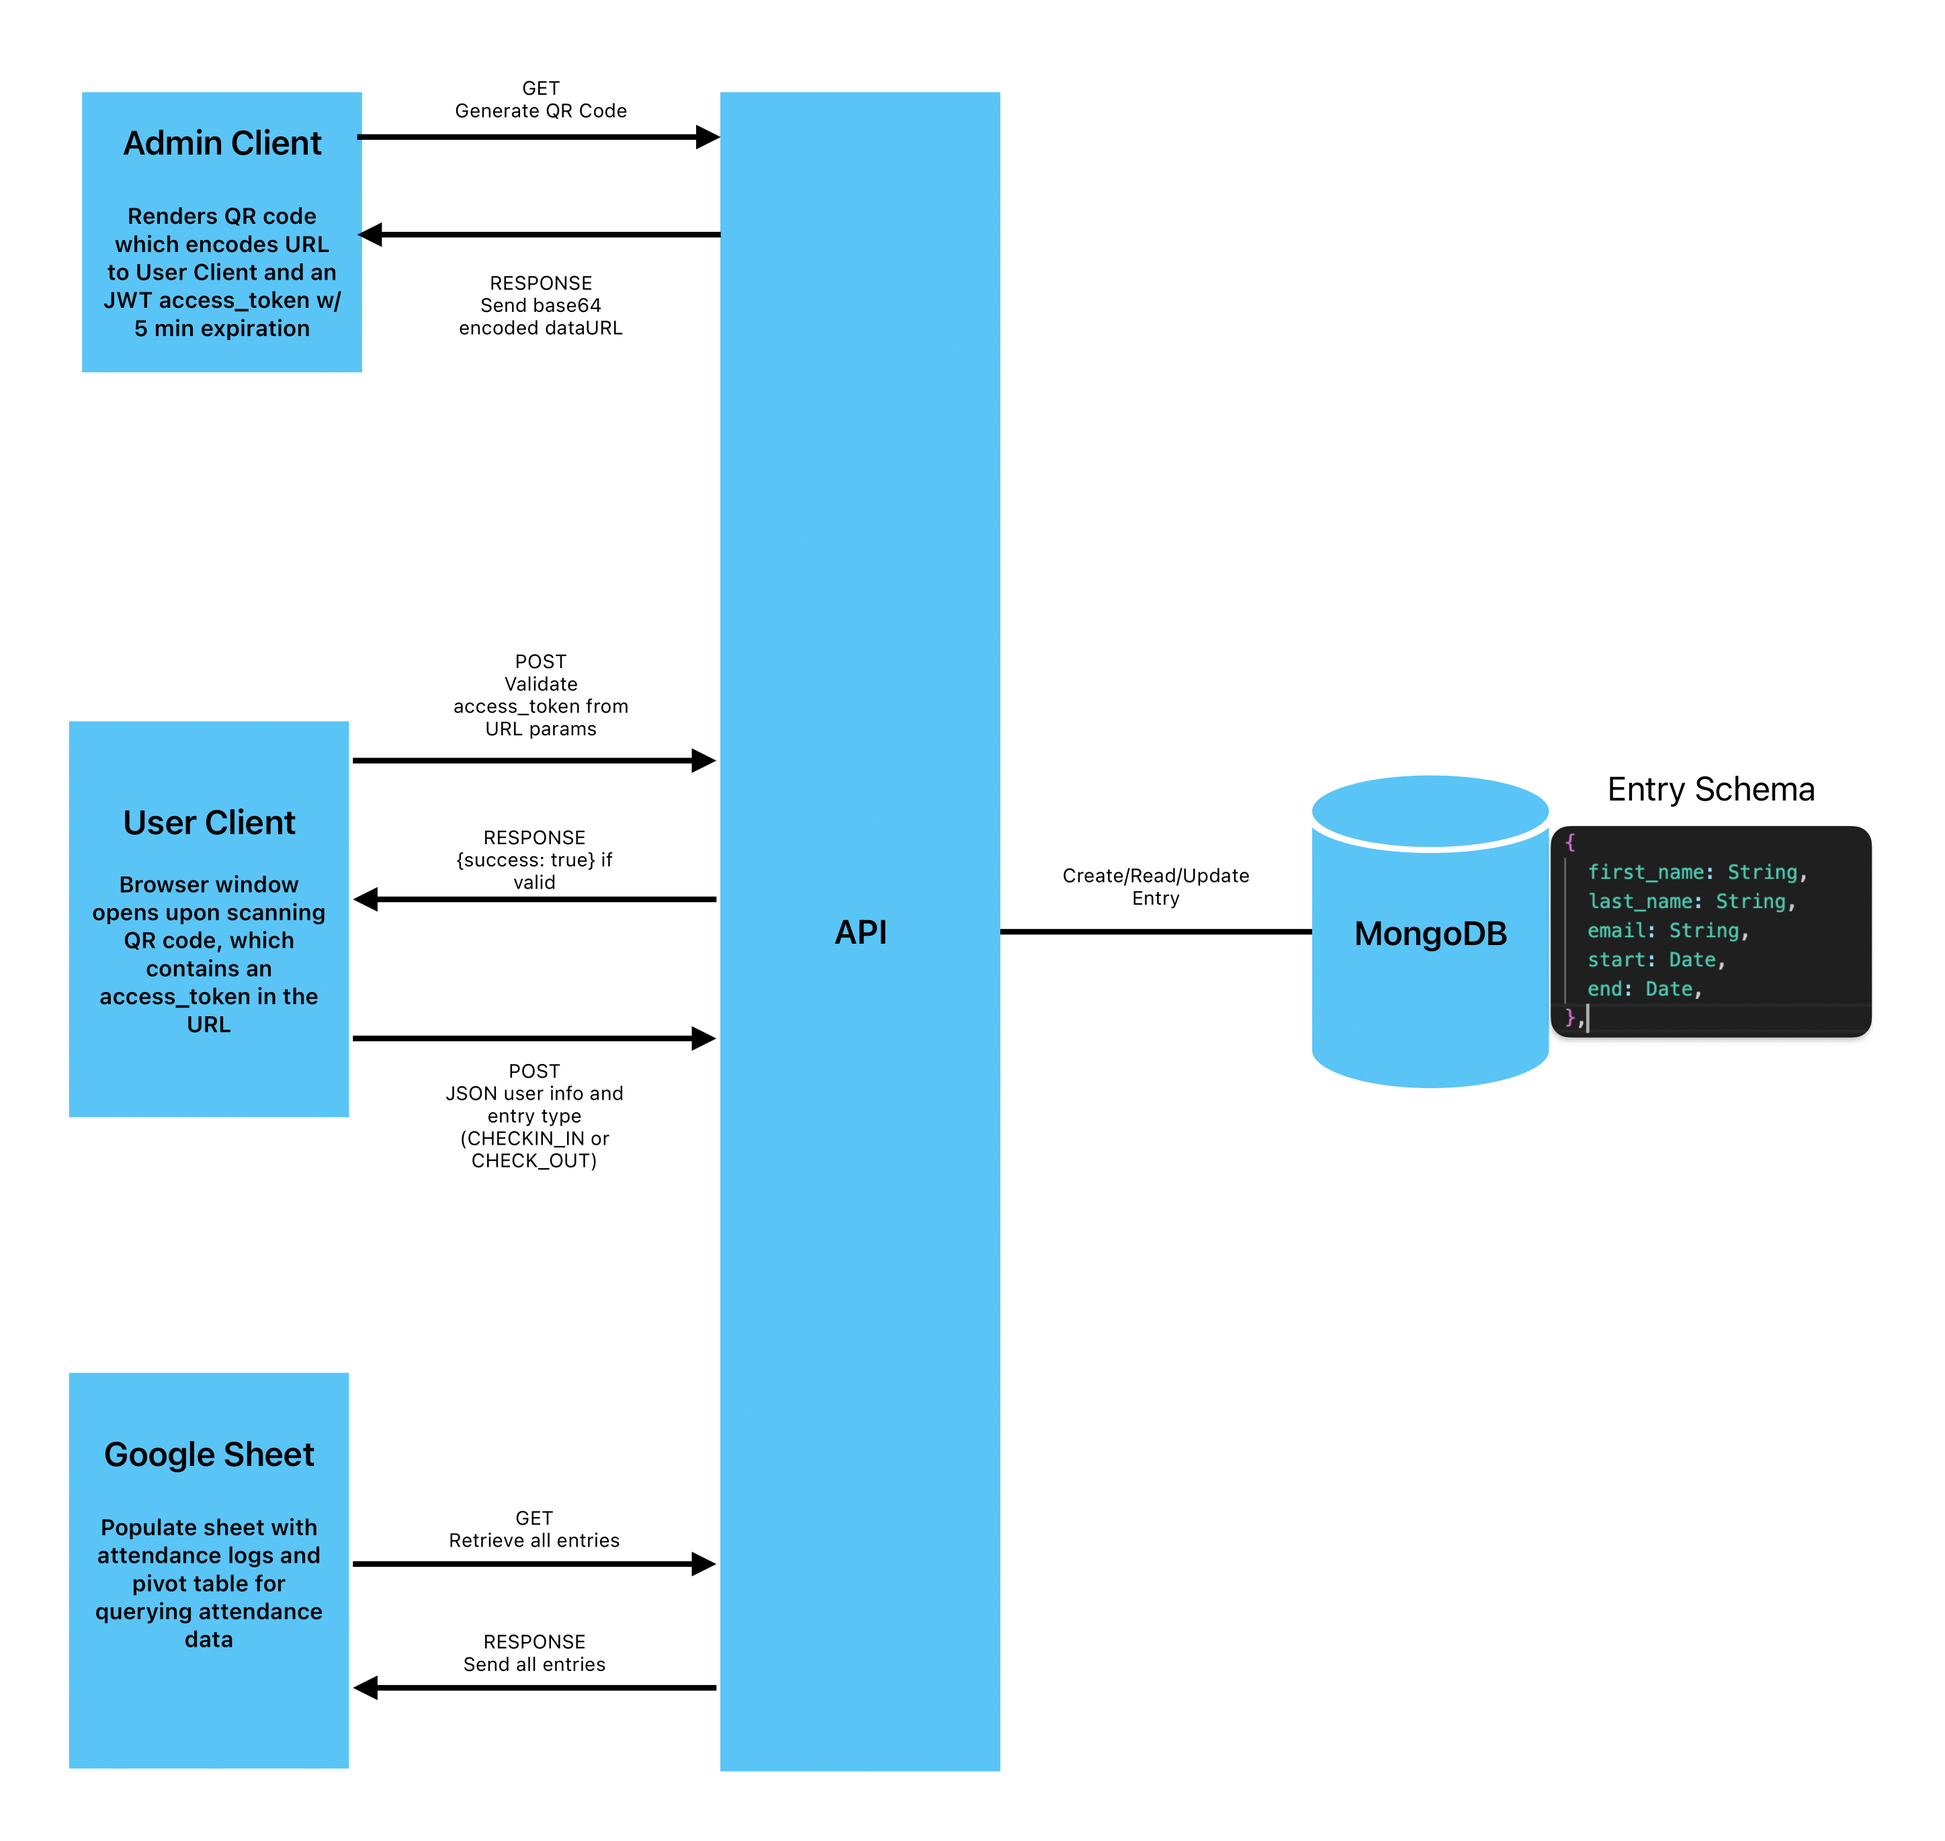
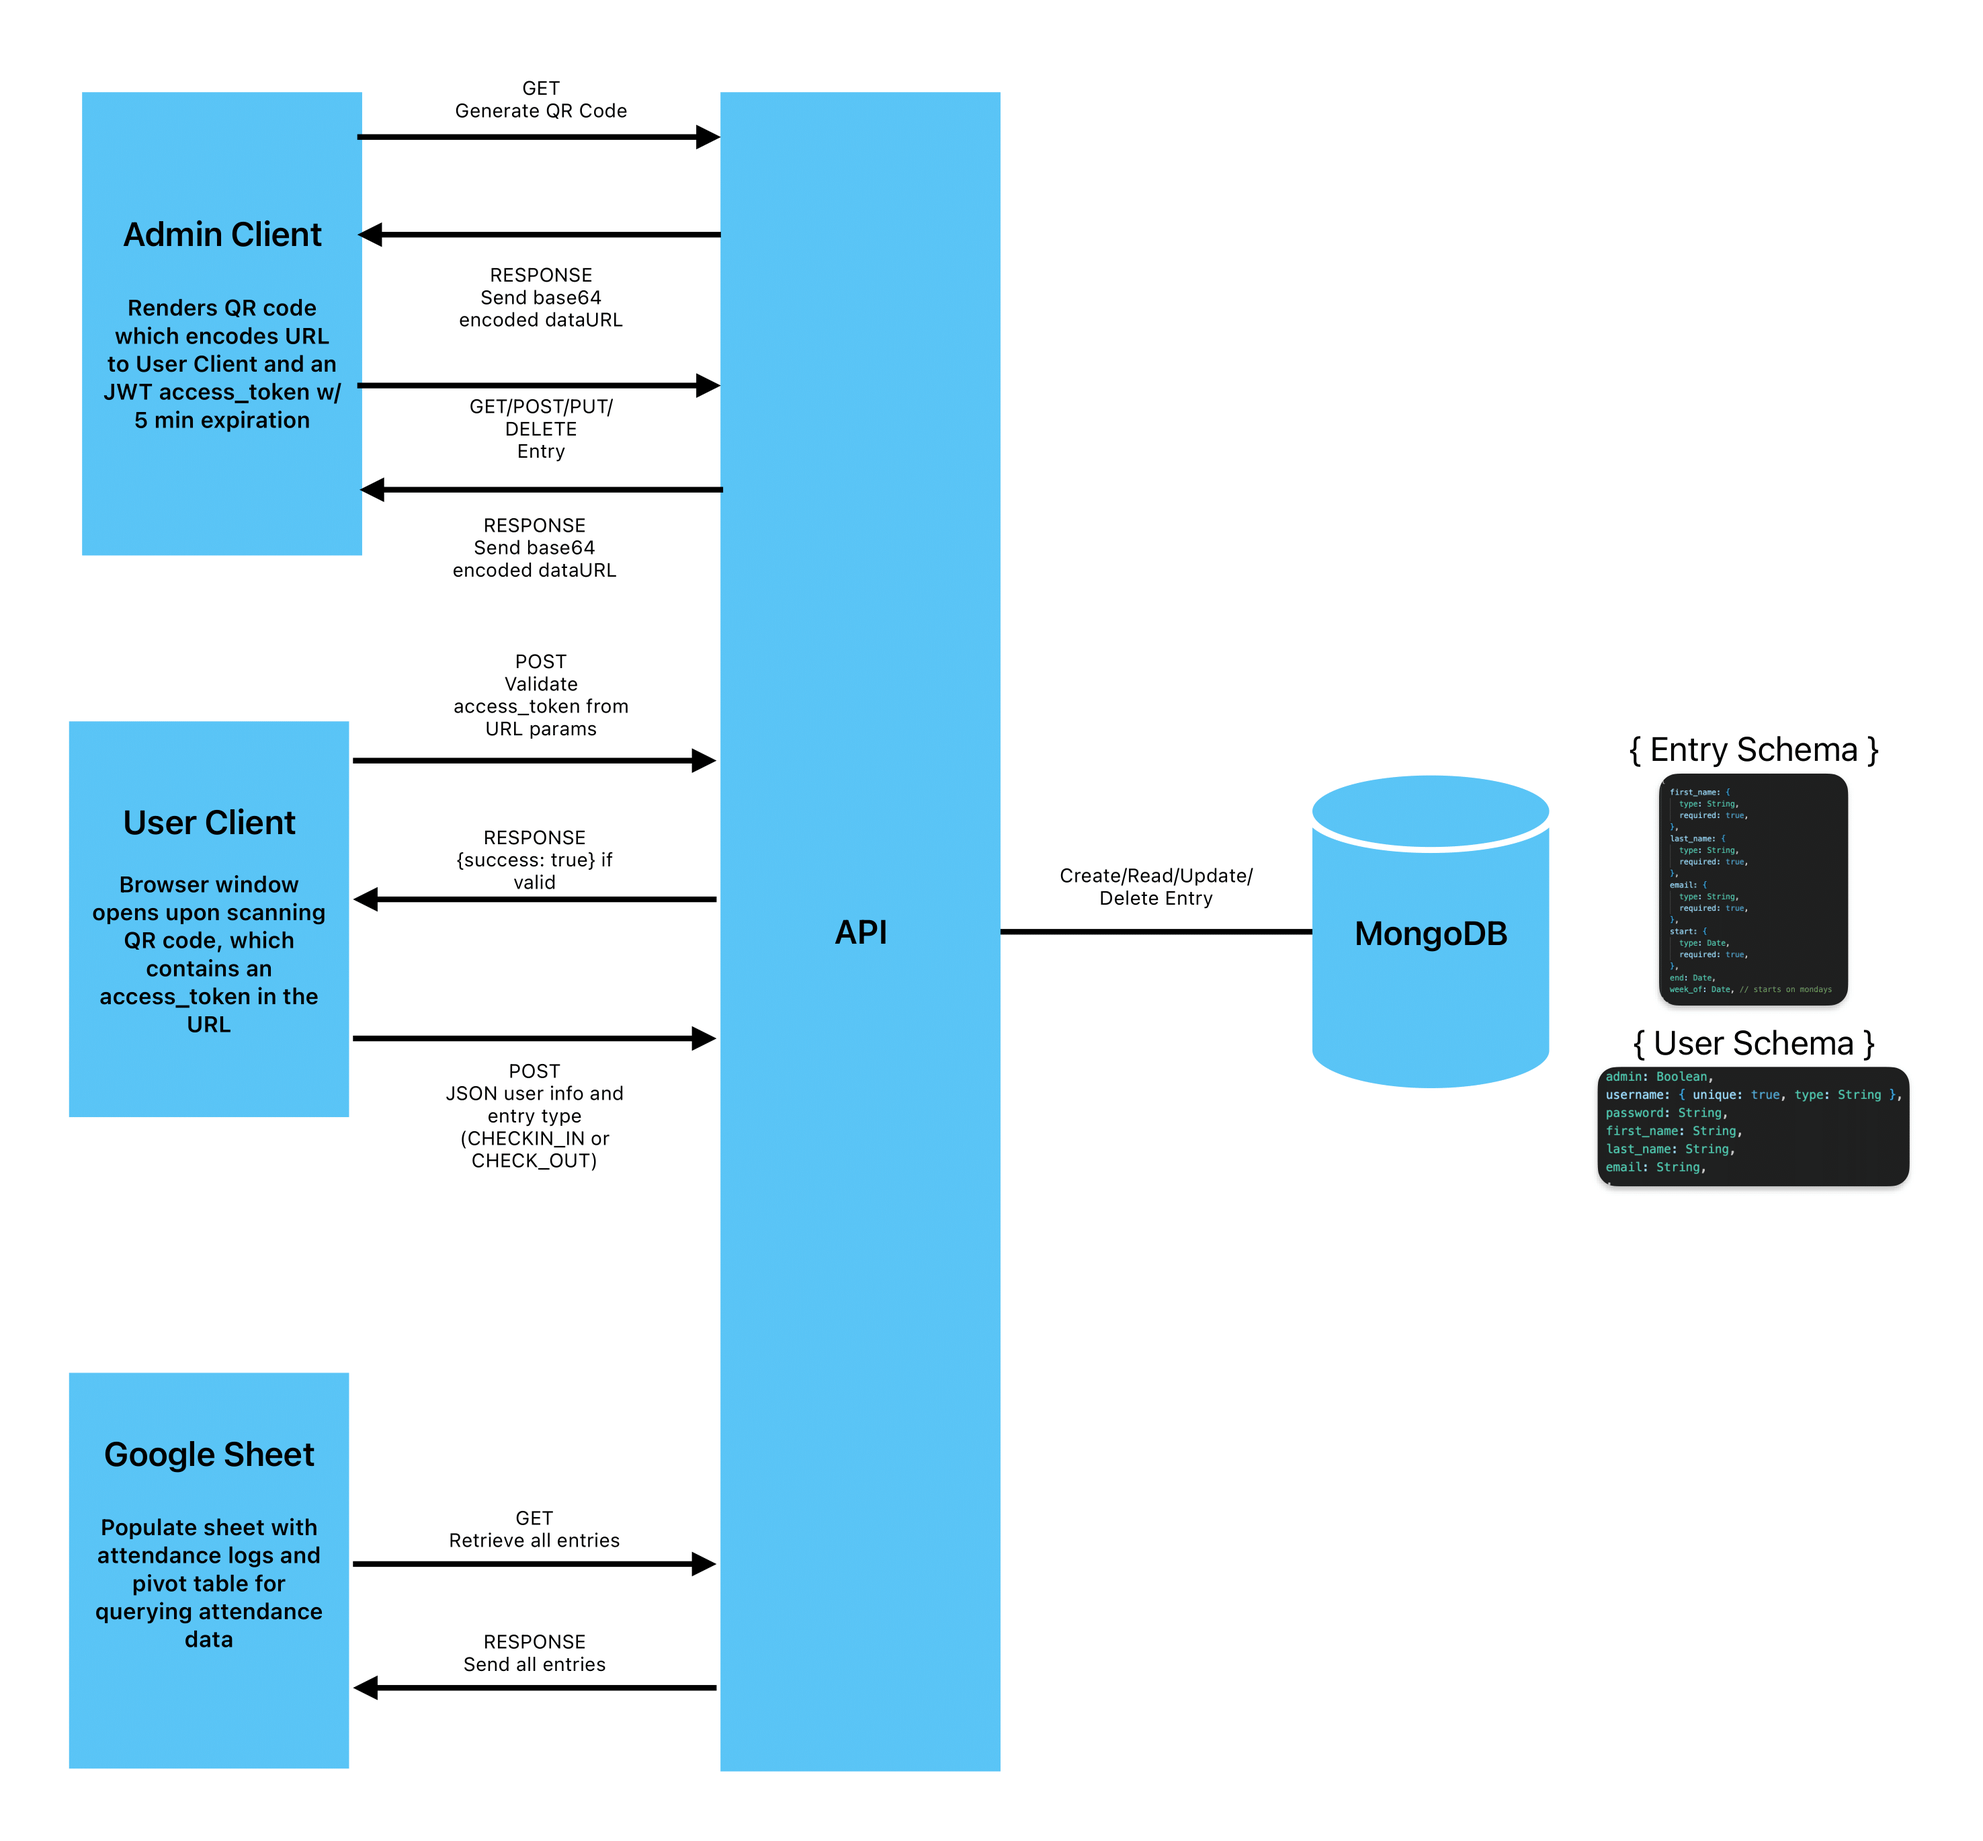
update readme and arch diagram

diff --git a/README.md b/README.md
@@ -6,6 +6,9 @@ Node server API for logging attendance, generating QR codes, and validating acce
 
 - [User Client](https://github.com/bbgrabbag/vs-attendance-client-user.git)
 - [Admin Client](https://github.com/bbgrabbag/vs-attendance-client-admin.git)
+- Attendance Spreadsheet
+  - [Prod](https://docs.google.com/spreadsheets/d/12T2-isdu6xNbipYujpXWjE6lnEGXTQmfxQbDvoB6wFQ/edit#gid=1779750210)
+  - [QA](https://docs.google.com/spreadsheets/d/11VRQK2OnqzBCogqMBHV_wzyxvH8xhQc7V2VH2quoKyI/edit#gid=1779750210)
 
 ### Sytem Architecture
 
@@ -23,6 +26,9 @@ cat .env.template >> .env.ci
 # generate .env.vault (remember to run this whenever there is a change to an .env.* file)
 npm run set-env
 
+#create admin-user
+npm run db:admin-user:create:dev
+
 # start dev server
 npm run dev
 
@@ -36,23 +42,52 @@ npm run lint
 npm run format
 ```
 
+### Database Scripts
+
+```bash
+# Note: <env> can be either qa, prod, or dev, each affecting their respective db environment. Script files can be found in /db/scripts/.
+
+# Creates an admin user. Some endpoints require an admin_access_token to be sent on behalf of an admin user. These are acquired by logging in via the `api/auth/admin/login` route.
+npm run db:admin-user:create:<env>
+
+# Used for data mgiration tasks such as batch updating.
+npm run db:migrate:<env>
+
+# Populate database with mock data. DO NOT USE FOR PRODUCTION!
+npm run db:seed:<env> # qa and dev only
+```
+
 ### API Endpoints
 
-> See [architecture diagram](#sytem-architecture) for `Entry` Schema.
-
-```
-EntryType = 'CHECK_IN' | 'CHECK_OUT'
-Fields = {
-    firstName: String,
-    lastName: String,
-    email: String
+```ts
+type LogEntryType = "CHECK_IN" | "CHECK_OUT";
+type LogEntryFields = {
+  firstName: string;
+  lastName: string;
+  email: string;
+};
+type Entry = {
+    first_name: string;
+    last_name: string;
+    email: string;
+    start: string; //ISO8601 Date format
+    end?: string; //ISO8601 Date format
+    week_of?: string //ISO8601 Date format 
+}
+type AdminUser = {
+    username: string;
+    password: string;
 }
 ```
 
-| Method | Path                                                 | Description                                                                                                                                                   | Headers                                  | Request Body                            | Response Data       |
-| ------ | ---------------------------------------------------- | ------------------------------------------------------------------------------------------------------------------------------------------------------------- | ---------------------------------------- | --------------------------------------- | ------------------- |
-| `GET`  | `/docs`                                              | Retrieve API documentation                                                                                                                                    |                                          |                                         | `<html>`            |
-| `GET`  | `/api/qr-code/generate`                              | Provides a dataURL of a QR code which encodes the User Client website URL and time-limited `access_token`: `https://<client_url>?access_token=<access_token>` |                                          |                                         | `{dataUrl:String}`  |
-| `GET`  | `/api/qr-code/validate`                              | Validates `access_token`                                                                                                                                      | `{Authorization: Bearer <access_token>}` |                                         | `{success:true}`    |
-| `GET`  | `/api/attendance/entries?&email=<string\|undefined>` | Retrieves filtered `Entry` records. Omit query parameters for all records.                                                                                    |                                          |                                         | `{entries:Entry[]}` |
-| `POST` | `/api/attendance/log-entry`                          | Creates a new timestamped `Entry`                                                                                                                             | `{Authorization: Bearer <access_token>}` | `{ "fields": Fields,"type": EntryType}` | `{success:true}`    |
+| Method   | Path                                                 | Description                                                                                                                                                                                                                                                                                                                                                         | Headers                                          | Request Body (JSON)                               | Response Data (JSON)                      |
+| -------- | ---------------------------------------------------- | ------------------------------------------------------------------------------------------------------------------------------------------------------------------------------------------------------------------------------------------------------------------------------------------------------------------------------------------------------------------- | ------------------------------------------------ | ------------------------------------------------- | ----------------------------------------- |
+| `GET`    | `/docs`                                              | Retrieve API documentation                                                                                                                                                                                                                                                                                                                                          |                                                  |                                                   | `<html>`                                  |
+| `POST`   | `/api/auth/admin/login`                              | Authenticates admin user and issues an `<admin_access_token>`.                                                                                                                                                                                                                                                                                                      |                                                  | `{ user: AdminUser }` | `{ success: true, access_token: string }` |
+| `GET`    | `/api/qr-code/generate`                              | Provides a dataURL of a QR code which encodes the User Client website URL and time-limited `user_access_token`: `https://<client_url>?access_token=<user_access_token>`                                                                                                                                                                                             |                                                  |                                                   | `{ dataUrl: string }`                      |
+| `GET`    | `/api/qr-code/validate`                              | Validates provided `user_access_token`                                                                                                                                                                                                                                                                                                                                       | `{ Authorization: Bearer <user_access_token>}`   |                                                   | `{ success:true }`                        |
+| `GET`    | `/api/attendance/entries?&email=<string\|undefined>` | Retrieves filtered `Entry` records. Omit query parameters for all records.                                                                                                                                                                                                                                                                                          |                                                  |                                                   | `{ success: true, entries:Entry[] }`      |
+| `POST`   | `/api/attendance/log-entry`                          | If `CHECK_IN` type is provided, a new timestamped `Entry` is created with `start` set to time of creation. Automatically sets `week_of` to the Monday prior to timestamp. For `CHECK_OUT` types, the most recent `Entry` belonging to record with given `email` is updated with `end` set to current time. If no records are found or lastest entry has already been checked out, an error will be thrown. | `{ Authorization: Bearer <user_access_token> }`  | `{ fields: LogEntryFields, type: LogEntryType }`             | `{ success:true, entry: Entry }`          |
+| `PUT`    | `/api/attendance/entries/:id`                        | Updates `Entry` Record with provided `id`.                                                                                                                                                                                                                                                                                                                          | `{ Authorization: Bearer <admin_access_token> }` | `{ fields: Entry }`                               | `{ success: true, entry: Entry }`         |
+| `DELETE` | `/api/attendance/entries/:id`                        | Deletes `Entry` Record with provided `id`. If `start` is provided, a new `week_of` date will be calculated based on the previous Monday.                                                                                                                                                                                                                            | `{ Authorization: Bearer <admin_access_token> }` |                                                   | `{ success: true, entryId: string }`      |
+| `POST`   | `/api/attendance/entries`                            | Creates `Entry` Record. Required fields are `first_name`,`last_name`,`email`, and `start`                                                                                                                                                                                                                                                                           | `{ Authorization: Bearer <admin_access_token> }` | `{ fields: Entry }`                               | `{ success: true, entry: Entry }`         |
